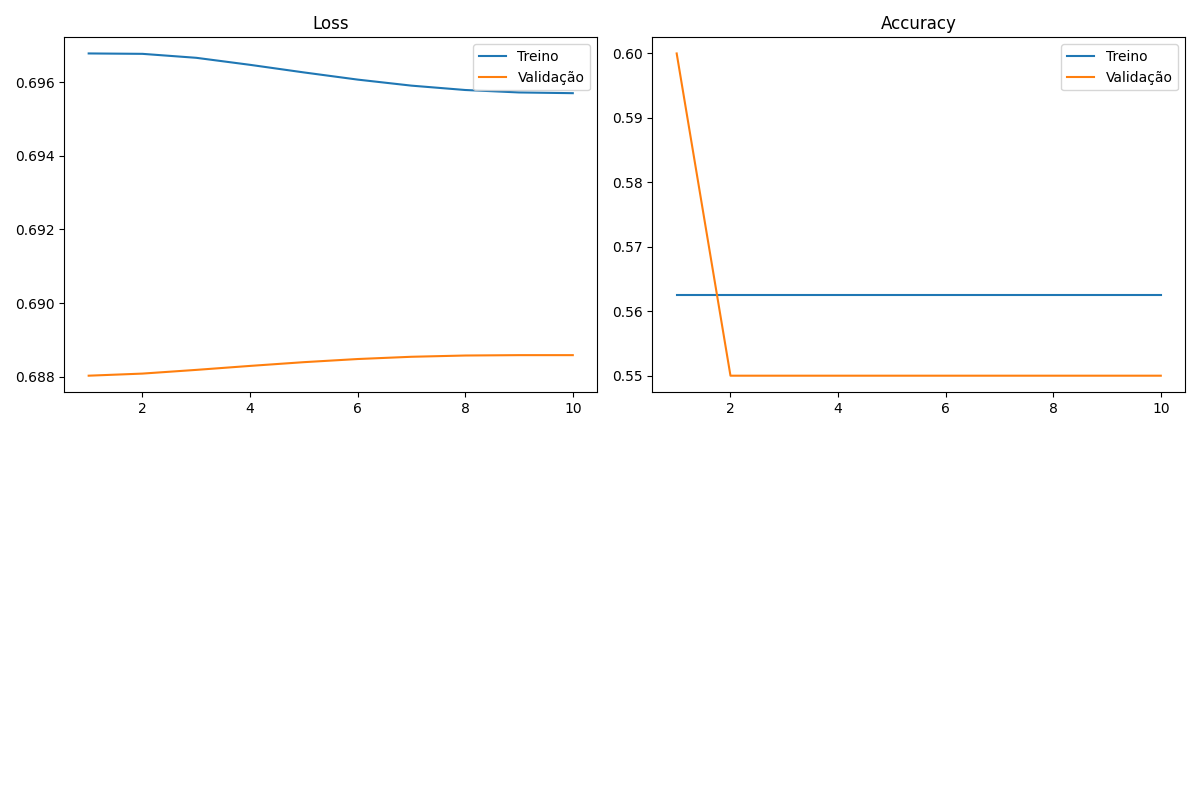
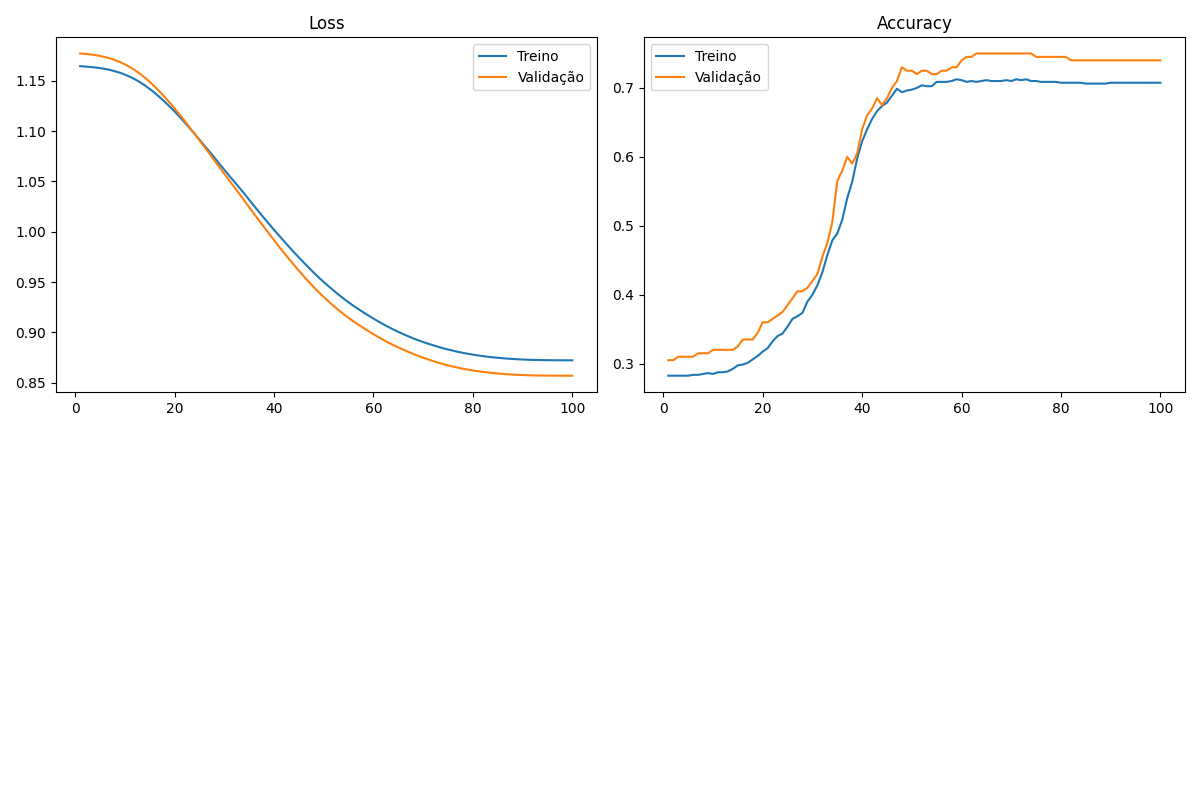
WIP: mudanças antes da refatoração modular

diff --git a/FrontEnd/malekitymlaas-new/src/components/DashboardPage.vue b/FrontEnd/malekitymlaas-new/src/components/DashboardPage.vue
@@ -11,7 +11,7 @@
         <tr>
           <th>ID</th>
           <th>Nome</th>
-          <th>Acurácia</th>
+          <th>Eficacia</th>
           <th>Inferência</th>
           <th>Eliminar</th>
         </tr>

diff --git a/Backend/MaleKitty_API/ml_service.py b/Backend/MaleKitty_API/ml_service.py
@@ -1,3 +1,3 @@
 version https://git-lfs.github.com/spec/v1
-oid sha256:2c228c861ebde3ad5864b45f75fdc629ebfb6b802d99a80c0b1a0011db987158
-size 48408
+oid sha256:1114e02d3b8e5556bc5741816bdac913d8438fce577004fbdf04f101c43c96d0
+size 26462
